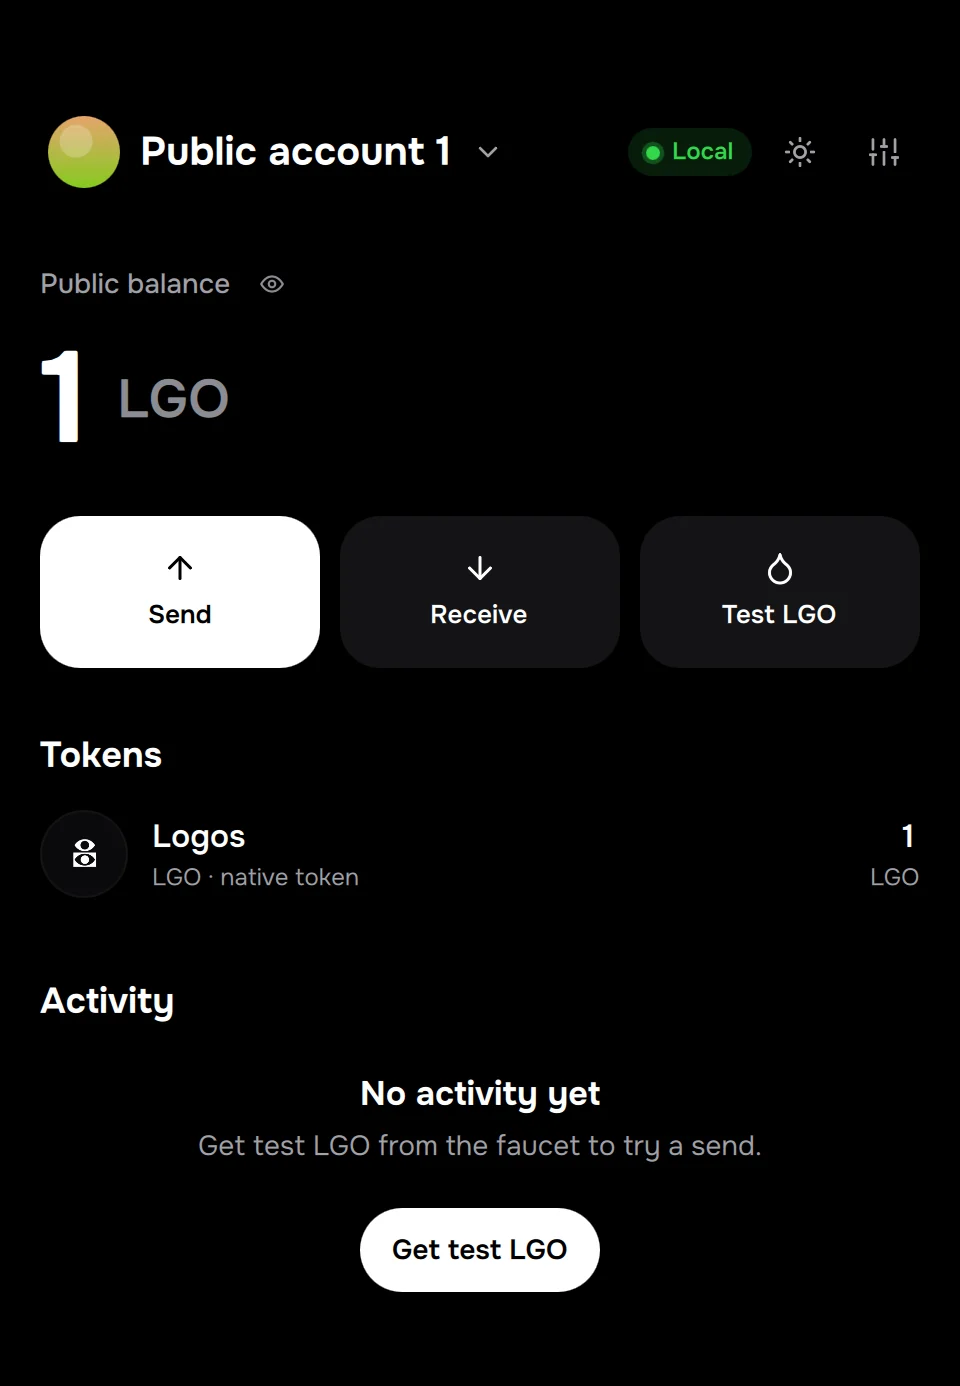
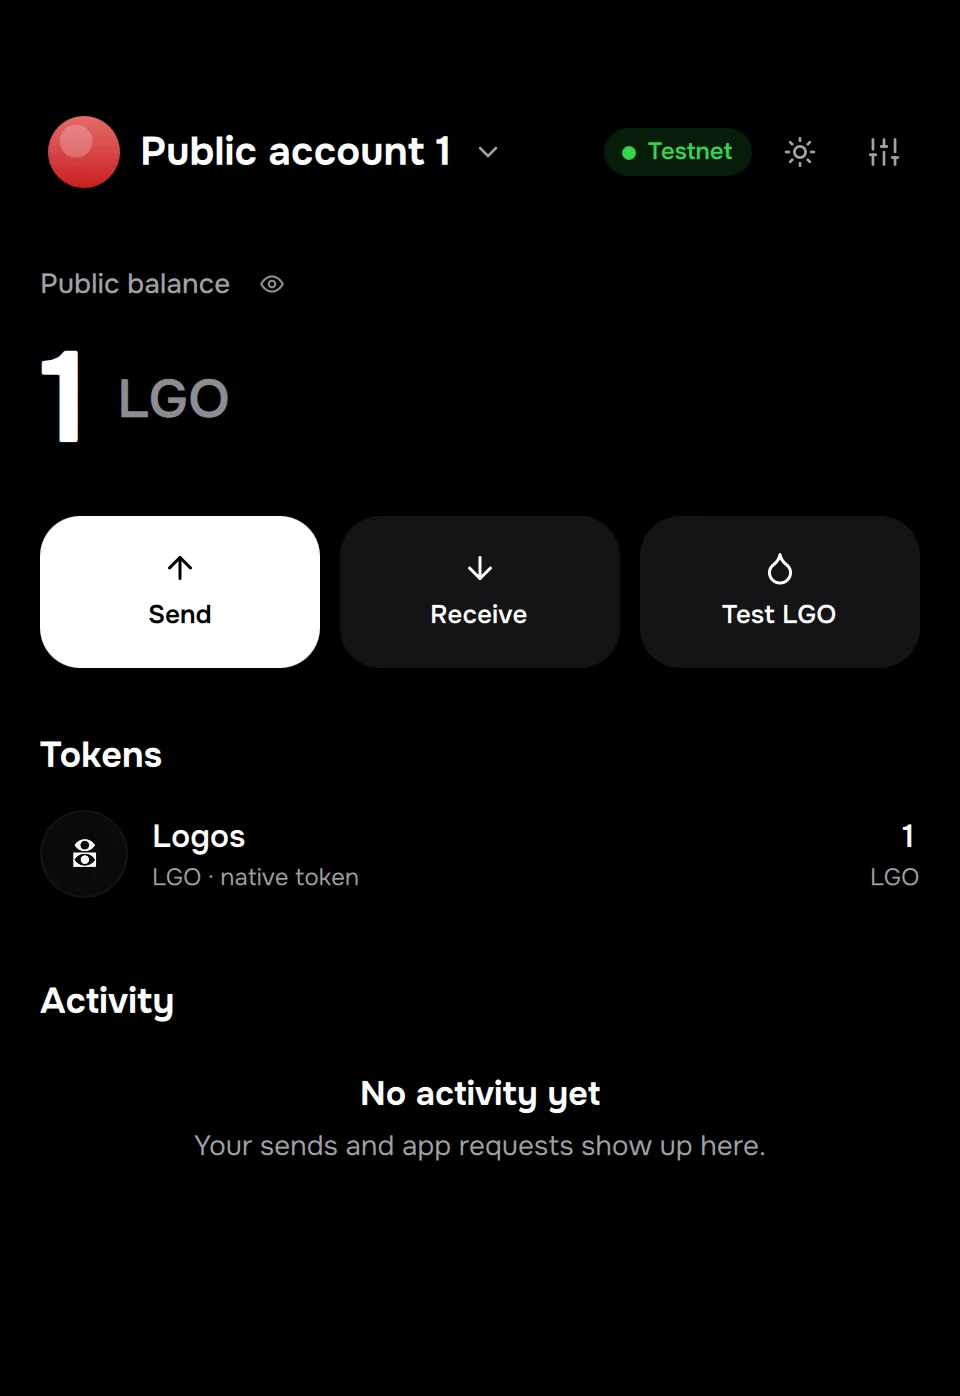
wallet: fee at today's rate and fee paid (U7); honest signed/unsigned app line, signers, unknown-call warning (U4)
- Review: "Network fee: Up to X" = gas limit x exec base fee + bytes x
  storage base fee + tip at getFeeState's current rates. The signed cap, gas
  limit and base fee are under Technical details.
- After inclusion, a public native send records fee_paid (the sender's drop
  beyond the amount, within the cap). The 0.3 RPC reports no gas used.
- appInfo.signed: Basecamp keeps manifest.sig beside an install only for
  signed packages. The sheet says so instead of always "Unsigned app".
- Lists public signers and warns for any other than the sender. The
  unknown-call notice says that the program can move what the signers hold.
- Home: no faucet nudge once the account holds LGO.
- Landing: testnet shots (the badge reads Testnet).

diff --git a/modules/logos_kit_wallet_ui/qml/LogosKitWallet/ApprovalView.qml b/modules/logos_kit_wallet_ui/qml/LogosKitWallet/ApprovalView.qml
@@ -68,7 +68,14 @@ ColumnLayout {
         Layout.fillWidth: true
         spacing: 6
         Glyph { name: "shield"; color: Theme.text3; width: 14; height: 14 }
-        Txt { Layout.fillWidth: true; text: "Unsigned app: Basecamp can't confirm its publisher. It can't move funds without you."; tone: "text3"; font.pixelSize: 12; wrapMode: Text.Wrap; elide: Text.ElideNone }
+        Txt {
+            objectName: "requesterTrust"
+            Layout.fillWidth: true
+            text: av.store.appSigned(av.requester)
+                ? "Installed from a signed package. It can't move funds without you."
+                : "Unsigned app: Basecamp can't confirm its publisher. It can't move funds without you."
+            tone: "text3"; font.pixelSize: 12; wrapMode: Text.Wrap; elide: Text.ElideNone
+        }
     }
 
     // The big line (Family: "Confirm transaction to 0x1f05…").
@@ -163,7 +170,7 @@ ColumnLayout {
             })
         }
         authority: (av.summary.authorities || []).map(function (a) { return "Authority change: " + a })
-        fee: av.review.fee && av.review.fee.maxFee ? ({ cap: av.review.fee.maxFee }) : null
+        fee: av.review.fee && av.review.fee.maxFee ? ({ cap: av.review.fee.maxFee, now: av.review.fee.estimate || "" }) : null
         // A native transfer runs in the chain itself (no program header).
         program: !av.program ? (av.outFlow && !av.outFlow.definition && av.intent.kind === "transfer"
                                 ? ({ name: "Native transfer", status: "builtin", immutable: true }) : null)
@@ -225,17 +232,41 @@ ColumnLayout {
     }
     ColumnLayout {
         id: details
+        objectName: "approvalDetails"
         visible: false
         Layout.fillWidth: true
         spacing: 4
         Txt { visible: !!av.program; Layout.fillWidth: true; text: "Image " + (av.program ? av.program.imageId : ""); mono: true; font.pixelSize: 11; tone: "text2"; wrapMode: Text.WrapAnywhere }
         Txt { visible: !!av.program && !!av.program.note; Layout.fillWidth: true; text: av.program ? av.program.note : ""; font.pixelSize: 12; tone: "text2"; wrapMode: Text.Wrap }
         Txt { visible: av.intent.kind === "call"; Layout.fillWidth: true; text: "Data " + (av.intent.data || ""); mono: true; font.pixelSize: 11; tone: "text2"; wrapMode: Text.WrapAnywhere; maximumLineCount: 4; elide: Text.ElideRight }
+        Txt {
+            visible: !!(av.review.fee && av.review.fee.maxFee)
+            Layout.fillWidth: true
+            text: av.review.fee ? "Fee cap " + Units.lgoLabel(av.review.fee.maxFee || "0") + " · gas limit " + (av.review.fee.gasLimit || "–")
+                  + (av.review.fee.baseFeeExec ? " · base fee " + av.review.fee.baseFeeExec + " lepta/gas" : "") : ""
+            font.pixelSize: 11; tone: "text2"; wrapMode: Text.Wrap
+        }
+        Txt {
+            visible: (av.summary.signers || []).length > 0
+            Layout.fillWidth: true
+            text: "Signs with " + (av.summary.signers || []).map(function (s) { return Fmt.short(s) }).join(", ")
+            mono: true; font.pixelSize: 11; tone: "text2"; wrapMode: Text.WrapAnywhere
+        }
         Txt { Layout.fillWidth: true; text: "Request " + (av.review.requestHash || ""); mono: true; font.pixelSize: 11; tone: "text3"; wrapMode: Text.WrapAnywhere }
     }
 
+    // Any public signer besides the sending account approves this too.
+    readonly property var extraSigners: (summary.signers || []).filter(function (id) {
+        return id !== av.intent.from && !(av.fromAccount && id === av.fromAccount.accountId)
+    })
+    Notice {
+        visible: av.extraSigners.length > 0
+        tone: "warn"; icon: "warning"
+        text: "This also signs with " + av.extraSigners.map(function (id) { return Fmt.short(id) }).join(", ") + ". Those accounts approve it too."
+    }
+
     // -- unknown effects -----------------------------------------------------------------
-    Notice { visible: !!av.summary.unknown; tone: "danger"; icon: "warning"; text: "Logos Kit can't read what this program call does. Only approve it if you trust the app completely." }
+    Notice { visible: !!av.summary.unknown; tone: "danger"; icon: "warning"; text: "Logos Kit can't read what this program call does, and the program can move anything the signing accounts hold. Only approve it if you trust the app completely." }
     CheckRow {
         id: ack
         objectName: "ackUnknown"

diff --git a/modules/logos_kit_wallet_ui/qml/LogosKitWallet/ProofView.qml b/modules/logos_kit_wallet_ui/qml/LogosKitWallet/ProofView.qml
@@ -2,6 +2,7 @@ import QtQuick
 import "../LogosKitUi"
 import QtQuick.Layouts
 import "Fmt.js" as Fmt
+import "../LogosKitUi/Units.js" as Units
 
 // Following one request after approval (ux-spec §7), after Phantom's
 // "Sending…" (Refero flow 3718, step 9): a centred ring with the elapsed time,
@@ -139,6 +140,15 @@ ColumnLayout {
                   ? "Included in block " + Fmt.amount(String(pv.s.block || ""), 0) + " but not confirmed. Logos Kit couldn't verify the result."
                 : pv.s.lifecycle === "included" ? (pv.s.block ? "In block " + Fmt.amount(String(pv.s.block), 0) + "." : "Included in a block.")
                 : (pv.s.error || "")
+        }
+        // What the network charged (public sends; private ones are fee-exempt).
+        Txt {
+            objectName: "feePaid"
+            visible: !!pv.s.feePaid && pv.s.outcome === "success"
+            Layout.alignment: Qt.AlignHCenter
+            tone: "text3"
+            font.pixelSize: 13
+            text: "Network fee paid " + Units.lgoLabel(pv.s.feePaid || "0")
         }
         Rectangle {
             visible: !!pv.s.txHash

diff --git a/modules/logos_kit_faucet/qml/LogosKitUi/TxSummary.qml b/modules/logos_kit_faucet/qml/LogosKitUi/TxSummary.qml
@@ -15,7 +15,7 @@ import "Units.js" as Units
 // to:       { name?: "Savings", address: "3ksne…", kind: "public"|"private"|"program" }
 // effects:  ["Posts a testimonial record owned by …", …]
 // authority:["Mint authority used", …]          (warnings)
-// fee:      { cap: "134400000", payer?: "Main" }   (lepta)
+// fee:      { cap: "134400000", now?: "16003200", payer?: "Main" }   (lepta)
 // program:  { name, status: "verified"|"claimed"|"unknown", immutable: bool }
 ColumnLayout {
     id: tx
@@ -121,7 +121,9 @@ ColumnLayout {
         InfoRow {
             visible: !!tx.fee
             label: "Network fee"
-            value: tx.fee ? "≤ " + Units.lgoLabel(tx.fee.cap) + (tx.fee.payer ? " · paid by " + tx.fee.payer : "") : ""
+            // Today's rate when the wallet has it (gas used is at most the
+            // limit, so the charge is at most this); the signed cap otherwise.
+            value: tx.fee ? "Up to " + Units.lgoLabel(tx.fee.now || tx.fee.cap) + (tx.fee.payer ? " · paid by " + tx.fee.payer : "") : ""
         }
         Item {
             visible: !!tx.program

diff --git a/modules/logos_kit_testimonial/qml/LogosKitUi/TxSummary.qml b/modules/logos_kit_testimonial/qml/LogosKitUi/TxSummary.qml
@@ -15,7 +15,7 @@ import "Units.js" as Units
 // to:       { name?: "Savings", address: "3ksne…", kind: "public"|"private"|"program" }
 // effects:  ["Posts a testimonial record owned by …", …]
 // authority:["Mint authority used", …]          (warnings)
-// fee:      { cap: "134400000", payer?: "Main" }   (lepta)
+// fee:      { cap: "134400000", now?: "16003200", payer?: "Main" }   (lepta)
 // program:  { name, status: "verified"|"claimed"|"unknown", immutable: bool }
 ColumnLayout {
     id: tx
@@ -121,7 +121,9 @@ ColumnLayout {
         InfoRow {
             visible: !!tx.fee
             label: "Network fee"
-            value: tx.fee ? "≤ " + Units.lgoLabel(tx.fee.cap) + (tx.fee.payer ? " · paid by " + tx.fee.payer : "") : ""
+            // Today's rate when the wallet has it (gas used is at most the
+            // limit, so the charge is at most this); the signed cap otherwise.
+            value: tx.fee ? "Up to " + Units.lgoLabel(tx.fee.now || tx.fee.cap) + (tx.fee.payer ? " · paid by " + tx.fee.payer : "") : ""
         }
         Item {
             visible: !!tx.program

diff --git a/modules/logos_kit_wallet_ui/qml/LogosKitUi/TxSummary.qml b/modules/logos_kit_wallet_ui/qml/LogosKitUi/TxSummary.qml
@@ -15,7 +15,7 @@ import "Units.js" as Units
 // to:       { name?: "Savings", address: "3ksne…", kind: "public"|"private"|"program" }
 // effects:  ["Posts a testimonial record owned by …", …]
 // authority:["Mint authority used", …]          (warnings)
-// fee:      { cap: "134400000", payer?: "Main" }   (lepta)
+// fee:      { cap: "134400000", now?: "16003200", payer?: "Main" }   (lepta)
 // program:  { name, status: "verified"|"claimed"|"unknown", immutable: bool }
 ColumnLayout {
     id: tx
@@ -121,7 +121,9 @@ ColumnLayout {
         InfoRow {
             visible: !!tx.fee
             label: "Network fee"
-            value: tx.fee ? "≤ " + Units.lgoLabel(tx.fee.cap) + (tx.fee.payer ? " · paid by " + tx.fee.payer : "") : ""
+            // Today's rate when the wallet has it (gas used is at most the
+            // limit, so the charge is at most this); the signed cap otherwise.
+            value: tx.fee ? "Up to " + Units.lgoLabel(tx.fee.now || tx.fee.cap) + (tx.fee.payer ? " · paid by " + tx.fee.payer : "") : ""
         }
         Item {
             visible: !!tx.program

diff --git a/modules/probe_dapp/qml/LogosKitUi/TxSummary.qml b/modules/probe_dapp/qml/LogosKitUi/TxSummary.qml
@@ -15,7 +15,7 @@ import "Units.js" as Units
 // to:       { name?: "Savings", address: "3ksne…", kind: "public"|"private"|"program" }
 // effects:  ["Posts a testimonial record owned by …", …]
 // authority:["Mint authority used", …]          (warnings)
-// fee:      { cap: "134400000", payer?: "Main" }   (lepta)
+// fee:      { cap: "134400000", now?: "16003200", payer?: "Main" }   (lepta)
 // program:  { name, status: "verified"|"claimed"|"unknown", immutable: bool }
 ColumnLayout {
     id: tx
@@ -121,7 +121,9 @@ ColumnLayout {
         InfoRow {
             visible: !!tx.fee
             label: "Network fee"
-            value: tx.fee ? "≤ " + Units.lgoLabel(tx.fee.cap) + (tx.fee.payer ? " · paid by " + tx.fee.payer : "") : ""
+            // Today's rate when the wallet has it (gas used is at most the
+            // limit, so the charge is at most this); the signed cap otherwise.
+            value: tx.fee ? "Up to " + Units.lgoLabel(tx.fee.now || tx.fee.cap) + (tx.fee.payer ? " · paid by " + tx.fee.payer : "") : ""
         }
         Item {
             visible: !!tx.program

diff --git a/sdk/qml/LogosKitUi/TxSummary.qml b/sdk/qml/LogosKitUi/TxSummary.qml
@@ -15,7 +15,7 @@ import "Units.js" as Units
 // to:       { name?: "Savings", address: "3ksne…", kind: "public"|"private"|"program" }
 // effects:  ["Posts a testimonial record owned by …", …]
 // authority:["Mint authority used", …]          (warnings)
-// fee:      { cap: "134400000", payer?: "Main" }   (lepta)
+// fee:      { cap: "134400000", now?: "16003200", payer?: "Main" }   (lepta)
 // program:  { name, status: "verified"|"claimed"|"unknown", immutable: bool }
 ColumnLayout {
     id: tx
@@ -121,7 +121,9 @@ ColumnLayout {
         InfoRow {
             visible: !!tx.fee
             label: "Network fee"
-            value: tx.fee ? "≤ " + Units.lgoLabel(tx.fee.cap) + (tx.fee.payer ? " · paid by " + tx.fee.payer : "") : ""
+            // Today's rate when the wallet has it (gas used is at most the
+            // limit, so the charge is at most this); the signed cap otherwise.
+            value: tx.fee ? "Up to " + Units.lgoLabel(tx.fee.now || tx.fee.cap) + (tx.fee.payer ? " · paid by " + tx.fee.payer : "") : ""
         }
         Item {
             visible: !!tx.program

diff --git a/templates/basecamp-dapp/qml/LogosKitUi/TxSummary.qml b/templates/basecamp-dapp/qml/LogosKitUi/TxSummary.qml
@@ -15,7 +15,7 @@ import "Units.js" as Units
 // to:       { name?: "Savings", address: "3ksne…", kind: "public"|"private"|"program" }
 // effects:  ["Posts a testimonial record owned by …", …]
 // authority:["Mint authority used", …]          (warnings)
-// fee:      { cap: "134400000", payer?: "Main" }   (lepta)
+// fee:      { cap: "134400000", now?: "16003200", payer?: "Main" }   (lepta)
 // program:  { name, status: "verified"|"claimed"|"unknown", immutable: bool }
 ColumnLayout {
     id: tx
@@ -121,7 +121,9 @@ ColumnLayout {
         InfoRow {
             visible: !!tx.fee
             label: "Network fee"
-            value: tx.fee ? "≤ " + Units.lgoLabel(tx.fee.cap) + (tx.fee.payer ? " · paid by " + tx.fee.payer : "") : ""
+            // Today's rate when the wallet has it (gas used is at most the
+            // limit, so the charge is at most this); the signed cap otherwise.
+            value: tx.fee ? "Up to " + Units.lgoLabel(tx.fee.now || tx.fee.cap) + (tx.fee.payer ? " · paid by " + tx.fee.payer : "") : ""
         }
         Item {
             visible: !!tx.program

diff --git a/modules/logos_kit_wallet_ui/qml/LogosKitWallet/Home.qml b/modules/logos_kit_wallet_ui/qml/LogosKitWallet/Home.qml
@@ -221,8 +221,10 @@ Item {
                 Layout.topMargin: 8
                 glyph: "inbox"
                 title: "No activity yet"
-                body: home.store.state.faucet ? "Get test LGO from the faucet to try a send." : "Sends, receives and app requests show up here."
-                actionText: home.store.state.faucet ? "Get test LGO" : ""
+                // Funded already: the faucet nudge would read as a mistake.
+                readonly property bool nudge: !!home.store.state.faucet && !(home.synced && home.acct.native !== "0")
+                body: nudge ? "Get test LGO from the faucet to try a send." : "Your sends and app requests show up here."
+                actionText: nudge ? "Get test LGO" : ""
                 actionTone: "ink"
                 onAction: home.funds()
             }

diff --git a/modules/logos_kit_wallet_ui/qml/LogosKitWallet/IntentView.qml b/modules/logos_kit_wallet_ui/qml/LogosKitWallet/IntentView.qml
@@ -241,7 +241,7 @@ ColumnLayout {
         Glyph { name: "shield"; color: Theme.text3; width: 14; height: 14 }
         Txt {
             Layout.fillWidth: true
-            text: iv.requester + " · named by Basecamp · unsigned"
+            text: iv.requester + " · named by Basecamp · " + (iv.store.appSigned(iv.requester) ? "signed package" : "unsigned")
             mono: true; tone: "text3"; font.pixelSize: 12
             wrapMode: Text.WrapAnywhere; elide: Text.ElideNone
         }

diff --git a/modules/logos_kit_wallet_ui/qml/LogosKitWallet/Store.qml b/modules/logos_kit_wallet_ui/qml/LogosKitWallet/Store.qml
@@ -79,6 +79,11 @@ QtObject {
         var a = apps[requester]
         return a && a.displayName ? a.displayName : requester
     }
+    // Installed from a signed package (Basecamp keeps its manifest.sig).
+    function appSigned(requester) {
+        var a = apps[requester]
+        return !!(a && a.signed)
+    }
     // Set when a private send, shield or dApp request should show its proof.
     property string watching: ""
 

diff --git a/crates/wallet-engine/src/tx.rs b/crates/wallet-engine/src/tx.rs
@@ -224,7 +224,20 @@ pub struct Fee {
     /// The sequencer's current execution base fee per gas (`getFeeState`),
     /// when it offers one. Gas used is only known after inclusion.
     pub base_fee_exec: Option<u64>,
+    /// What LEZ would hold for this transaction at today's base fees:
+    /// `gas_limit·base_fee_exec + bytes·base_fee_stor + tip`. The charge is
+    /// at most this (gas actually used ≤ the limit); the 0.3 RPC reports no
+    /// gas used, so the paid fee is read from the sender's balance afterwards.
+    pub estimate: Option<String>,
+    /// Signed size in bytes and the tip, for `estimate`.
+    #[serde(skip)]
+    sizing: Option<(u64, u64)>,
 }
+
+/// Bytes a single signature adds to the signed transaction (signature and
+/// public key), for the storage part of the fee estimate. Storage costs a few
+/// thousand lepta at most, so this needs no more precision.
+const WITNESS_BYTES_PER_SIGNER: u64 = 100;
 
 /// Returned (inside `anyhow::Error`) when something changed since approval.
 #[derive(Debug)]
@@ -512,6 +525,11 @@ fn fee_of(message: &lee::public_transaction::Message) -> Fee {
         max_fee: Some(f.max_fee.to_string()),
         gas_limit: Some(f.gas_limit),
         base_fee_exec: None,
+        estimate: None,
+        sizing: borsh::to_vec(message).ok().map(|b| {
+            let witness = WITNESS_BYTES_PER_SIGNER * message.nonces.len().max(1) as u64;
+            (b.len() as u64 + witness, f.tip)
+        }),
     })
 }
 
@@ -596,13 +614,16 @@ impl Session {
             ..
         } = built;
         if fee.payer.is_some() {
-            // Informational only: the approval binds to max_fee, not this.
-            fee.base_fee_exec = core
-                .helm_owned()
-                .get_fee_state()
-                .await
-                .ok()
-                .map(|q| q.base_fee_exec);
+            // Informational only: the approval binds to max_fee, not these.
+            if let Ok(q) = core.helm_owned().get_fee_state().await {
+                fee.base_fee_exec = Some(q.base_fee_exec);
+                fee.estimate = fee.gas_limit.zip(fee.sizing).map(|(gas, (bytes, tip))| {
+                    (u128::from(gas) * u128::from(q.base_fee_exec)
+                        + u128::from(bytes) * u128::from(q.base_fee_stor)
+                        + u128::from(tip))
+                    .to_string()
+                });
+            }
         }
         let hash = request_hash(&scope, requester, &intent, &bound);
         Ok(Prepared {
